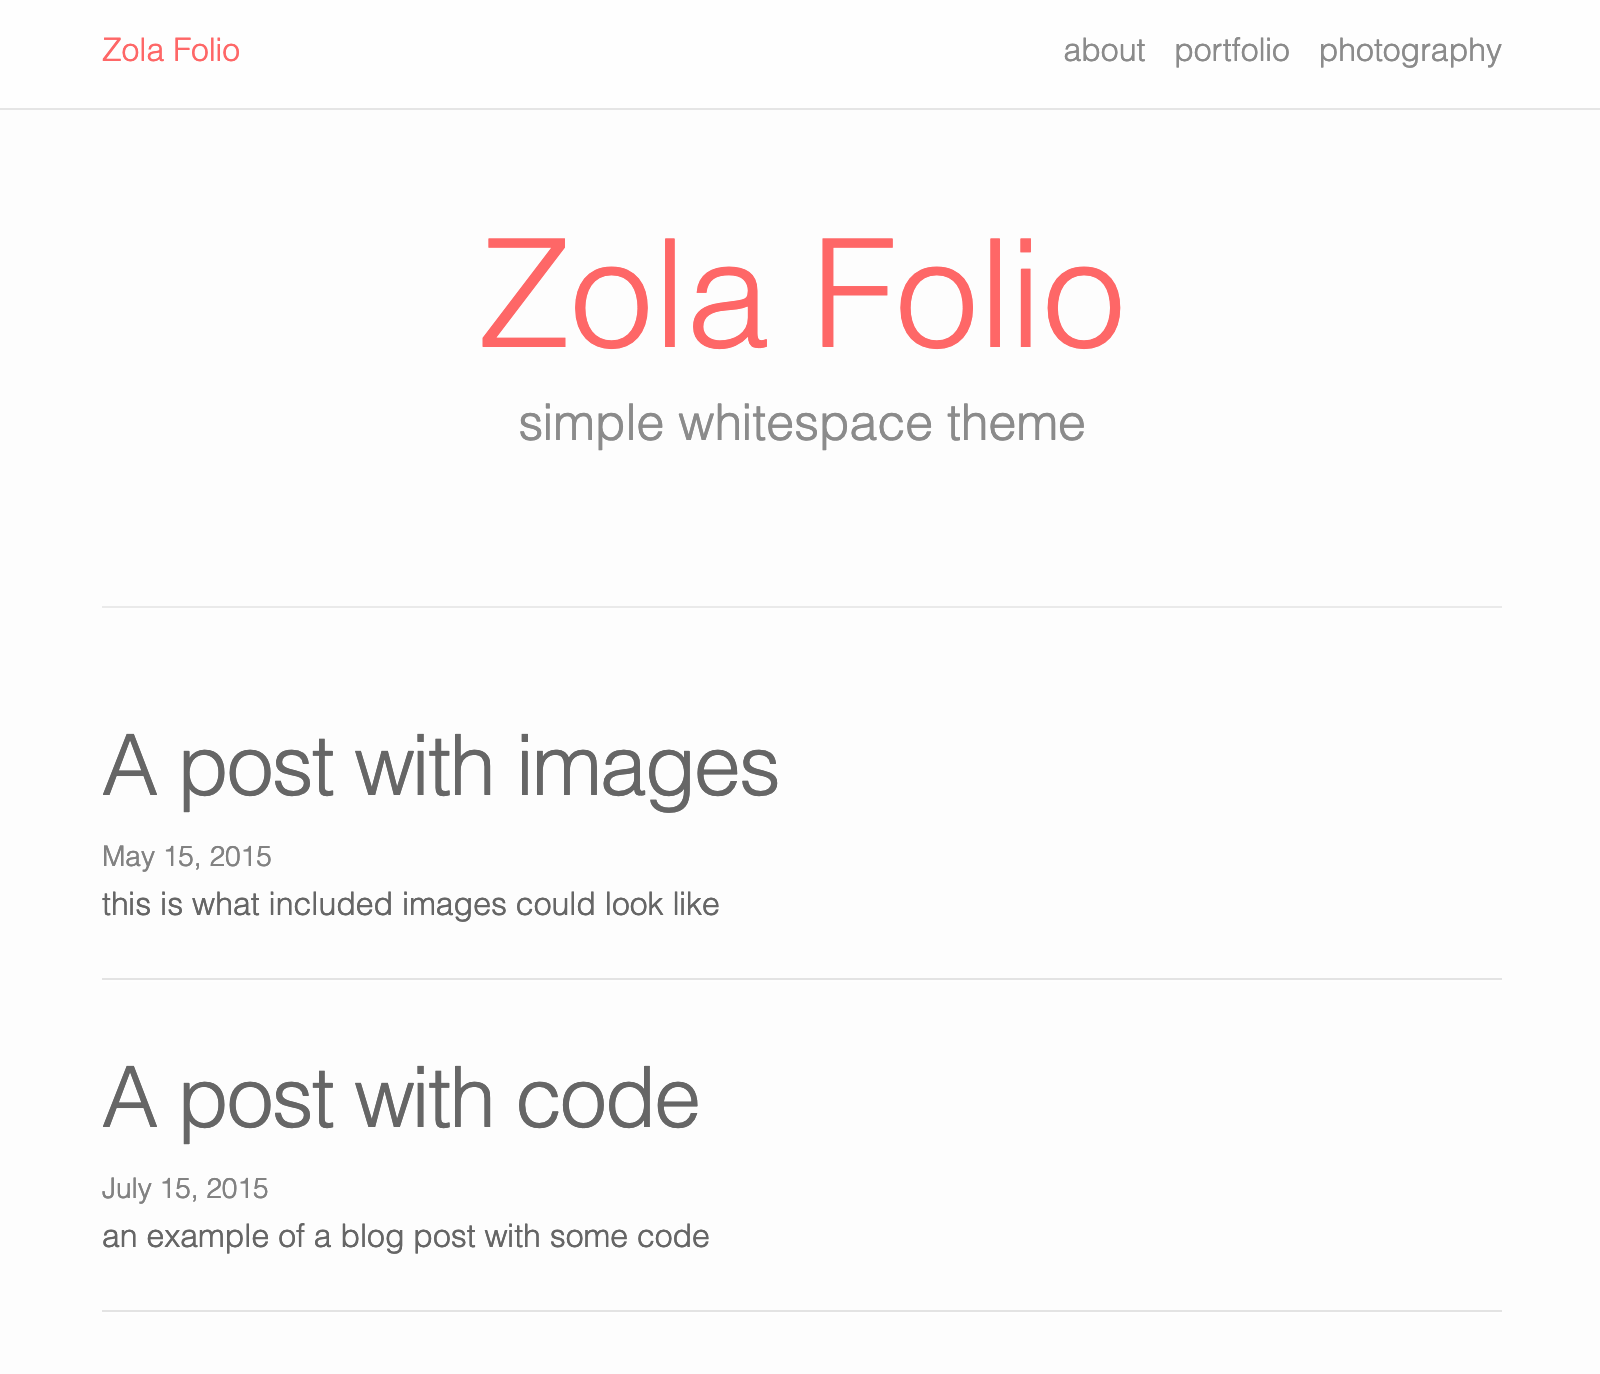
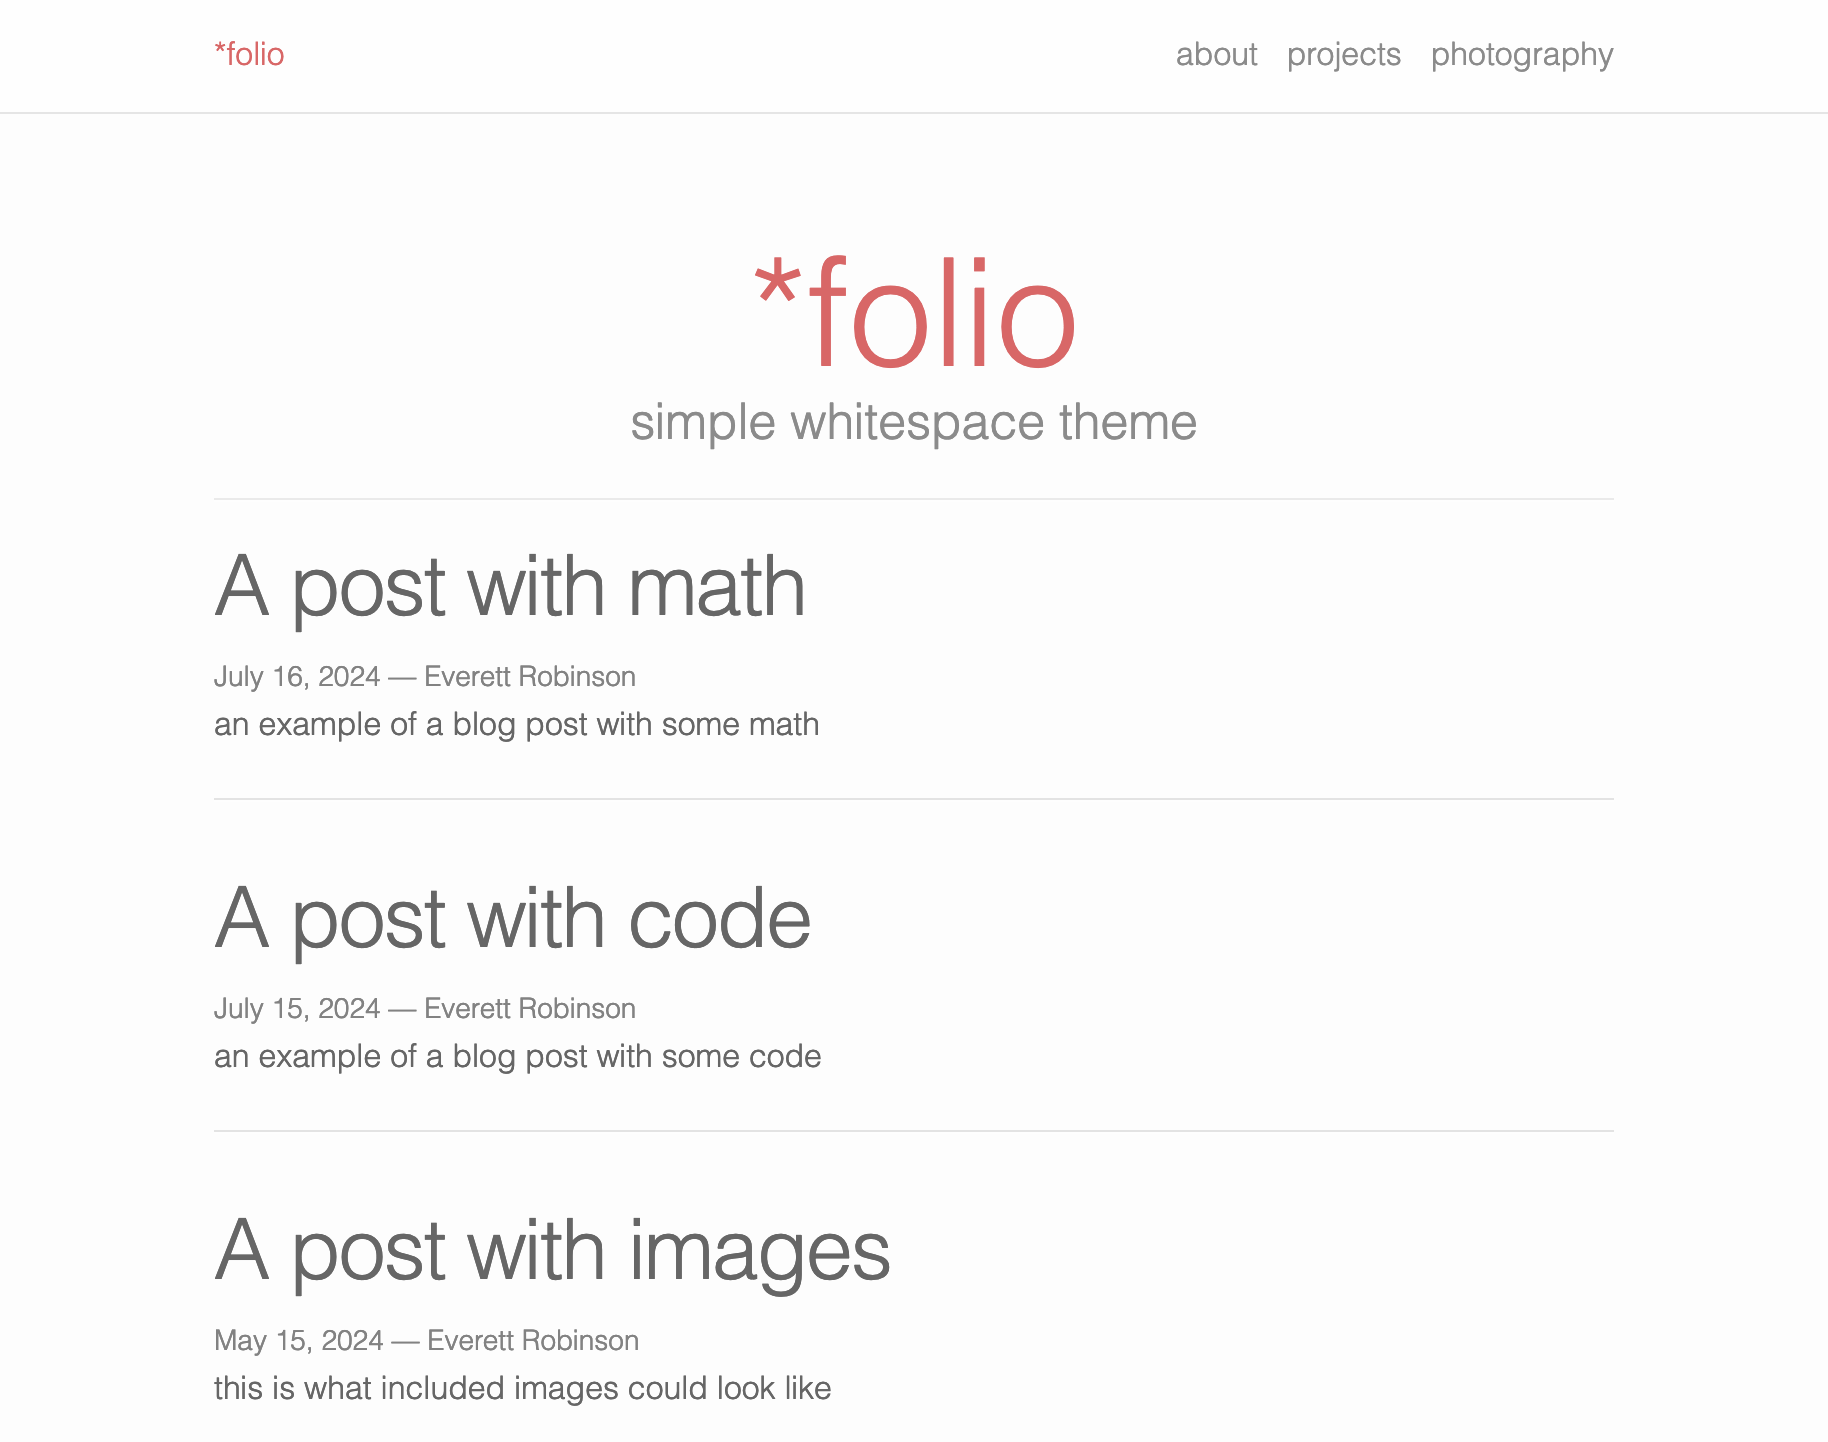
Update README and theme screenshot

diff --git a/README.md b/README.md
@@ -1,3 +1,46 @@
 # *folio
 
-*folio is a [Zola](https://www.getzola.org) theme ported and enhanced from the [original Jekyll theme by Lia Boegev](https://github.com/bogoli/-folio/tree/master).
+[![zola-folio](static/img/zola-folio.png)](https://zola-folio.pages.dev/)
+
+*folio is a [Zola](https://www.getzola.org) theme forked from the [original Jekyll theme by Lia Boegev](https://github.com/bogoli/-folio/tree/master).
+
+**[Live Demo](https://zola-folio.pages.dev/)**
+
+## Features
+
+### Menu Bar
+
+Items in the top menu bar can be controlled with the `extra.menu_items` setting in config.toml:
+
+```toml
+menu_items = [
+    {name = "about", url = "/pages/about"},
+    {name = "projects", url = "/pages/projects"},
+    {name = "photography", url = "/pages/photography"},
+]
+```
+
+### MathJax
+
+MathJax can be enabled by setting `extra.math = true` in config.toml. [Example](https://zola-folio.pages.dev/math/).
+
+
+## Installation
+
+In the git repo of your zola site:
+
+### Add the theme as a git submodule:
+
+```bash
+git submodule add https://github.com/evjrob/zola-folio themes/zola-folio
+git submodule update --init --recursive
+git submodule update --remote --merge
+```
+
+### Or clone the theme directly into your themes directory:
+
+```bash
+git clone https://github.com/evjrob/zola-folio themes/zola-folio
+```
+
+Then set `theme = "zola-folio"` in your config.toml file. You can now test the theme locally by running `zola serve` in the terminal and navigating to the localhost URL displayed by the command.
